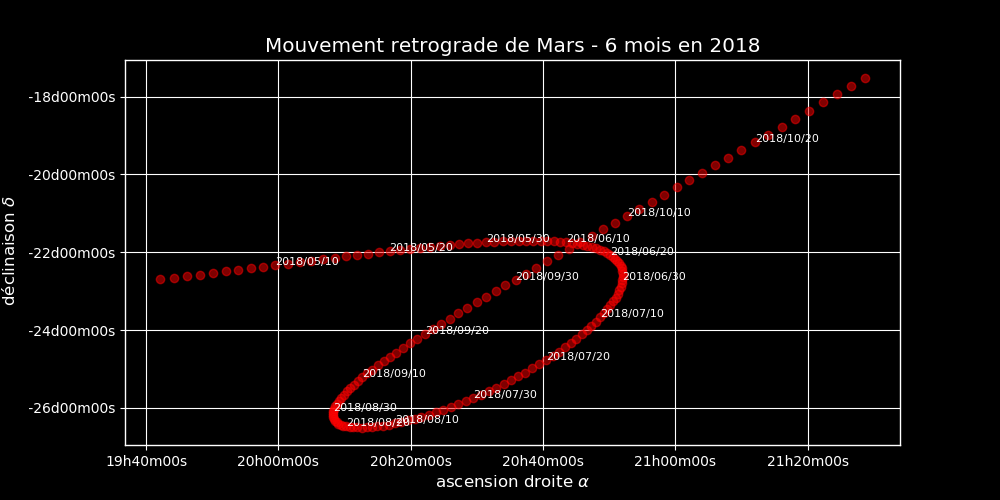
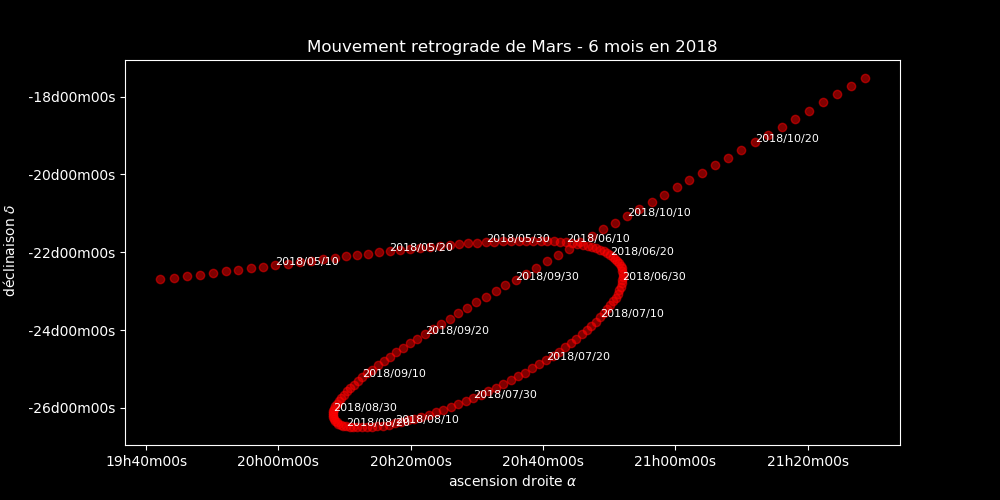
update

diff --git a/docs/src/programs/plot_coord2.py b/docs/src/programs/plot_coord2.py
@@ -15,7 +15,9 @@ import ephem as ep
 from datetime import datetime , timedelta
 
 # OBSERVATEUR
-obs = ep.city("Paris")
+#obs = ep.city("Paris")
+obs = ep.Observer()
+obs.lon, obs.lat, obs.elev = '10.08', '36.4', 100.0 # COORDONNÉES DE TUNIS
 # MARS
 mr = ep.Mars()
 plt.figure(figsize=(10, 5))
